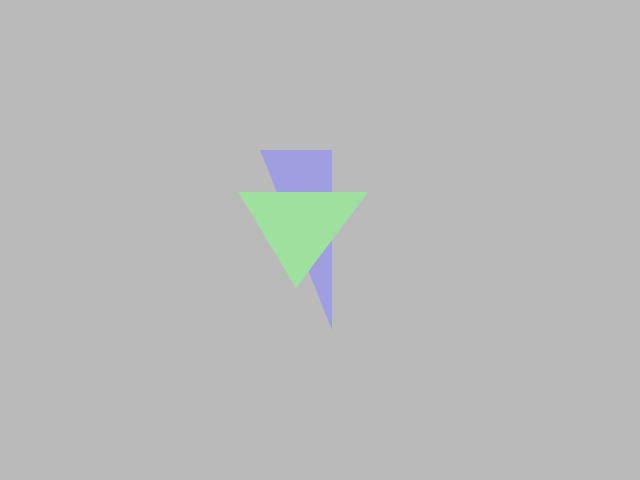
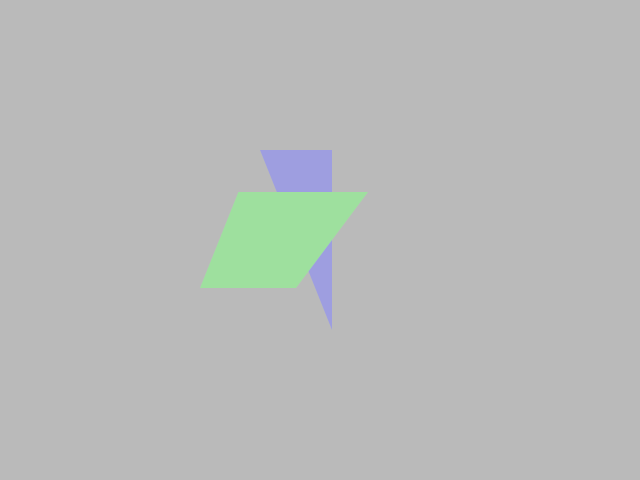
Add more triangle meshes

Changed region(s): [[0.3125, 0.4062, 0.4688, 0.625]]

diff --git a/handouts/homework2.tex b/handouts/homework2.tex
@@ -4,7 +4,7 @@
 
 \header{2}{3D Software Rendering}
 
-The previous homework focused on 2D graphics (which is already quite important!). In this homework, we're going 3D. We will define shapes in 3D, project them onto the screen space, and render them. The projection is going to simulate how a camera (or our eyes) works: it 
+The previous homework focused on 2D graphics (which is already quite important!). In this homework, we're going 3D. We will define shapes in 3D, project them onto the screen space, and render them. The projection is going to simulate how a camera (or our eyes) works. In particular, we will implement a \href{https://en.wikipedia.org/wiki/Pinhole_camera}{pinhole camera}. The light coming from an object goes through a very small hole and projects on a film (\cref{fig:pinhole}). 
 
 \begin{figure}[h]
     \centering
@@ -32,13 +32,13 @@ Let's start simple and render just a single 3D triangle. Our plan is to first pr
     \label{fig:perspective_transform}
 \end{figure}
 
-How do we project the triangle then? It's significantly easier if we assume a particular coordinate system of our camera. We will lift this assumption in the later part of the homework (by, you guess it, applying 3D transformations). Let's assume in the \emph{camera space}, $x$-axis is pointing right, $y$-axis is pointing up, and $z$-axis is pointing away from the direction the camera is looking at (the $z$ is specified this way so that we are following a \href{https://en.wikipedia.org/wiki/Right-hand_rule}{right-handed} coordinate system). We also assume that the image plane is located at $z=-1$. \cref{fig:perspective_transform} shows that the perspective projection of a point $(x, y, z)$ boils down to computing the intersection between the line formed by the point and the camera origin with the image plane. The projected point $(x', y')$ is
+How do we project the triangle then? It's significantly easier if we assume a particular coordinate system of our camera. We will lift this assumption in the later part of the homework (by, you guess it, applying 3D transformations). Let's assume in the \emph{camera space}, $x$-axis is pointing right, $y$-axis is pointing up, and $z$-axis is pointing away from the direction the camera is looking at (the $z$ is specified this way so that we are following a \href{https://en.wikipedia.org/wiki/Right-hand_rule}{right-handed} coordinate system). We also assume that the image plane is located at $z=-1$ -- this is where we are going to project our triangle onto. \cref{fig:perspective_transform} shows that the perspective projection of a point $(x, y, z)$ boils down to computing the intersection between the line formed by the point and the camera origin with the image plane. The projected point $(x', y')$ is
 \begin{equation}
 \left(x', y'\right) = \left(-\frac{x}{z}, -\frac{y}{z}\right).
 \label{eq:projection}
 \end{equation}
 
-Furthermore, we need to define the extent of the image plane (we can't have an image with infinite size!). Note that our image can be a rectangle (instead of a square). We define the extent of the image plane to be $[-sa, -s, -1] \times [sa, s, -1]$: $s$ is a scaling factor that controls the size of the image, and $a$ is the aspect ratio ($\frac{\text{image width}}{\text{image height}}$). As we will later show, $s$ is related to the \href{https://en.wikipedia.org/wiki/Field_of_view}{field of view} of a camera. Any point that lands outside of the extend of the image plane is discarded and not going to show up in our image. We call the set of points that are going to land on the image planes the \emph{view frustrum}. \cref{fig:perspective_transform} also visualizes the view frustrum.
+Furthermore, we need to define the extent of the image plane (we can't have an image with infinite size!). Note that our image can be a rectangle (instead of a square). We define the extent of the image plane to be $[-sa, -s, -1] \times [sa, s, -1]$: $s$ is a scaling factor that controls the size of the image, and $a$ is the aspect ratio ($\frac{\text{image width}}{\text{image height}}$). As we will discuss in the lecture, $s$ is related to the \href{https://en.wikipedia.org/wiki/Field_of_view}{field of view} of a camera. Any point that lands outside of the extend of the image plane is discarded and not going to show up in our image. We call the set of points that are going to land on the image planes the \emph{view frustrum}. \cref{fig:perspective_transform} also visualizes the view frustrum.
 
 Therefore, given a triangle with 3 vertices, we will project all three of them onto the image plane using \cref{eq:projection}. This generates a 2D triangle which we can then render using our previous homework's code.
 
@@ -67,20 +67,31 @@ Dealing with triangles with only one or two vertices behind the camera, and the 
     \label{fig:triangle_clipping}
 \end{figure}
 
-Implement your triangle rendering in \lstinline{hw_2_1()} in \lstinline{hw2.cpp}. To test your rendering, use the following command:
-\begin{lstlisting}[language=bash]
-  ./balboa -hw 2_1 -s 1 -p0 -1 -1 -3 -p1 0 1 -3 -p2 1 -1 -3 -color 0.7 0.3 0.4 -znear 1e-6
-\end{lstlisting}
-
 We'll use the same antialiasing scheme we used in Homework 1, i.e., a $4\times4$ supersampling.
 
-We provide our rendering in \cref{fig:hw2_1}.
+Implement your triangle rendering in \lstinline{hw_2_1()} in \lstinline{hw2.cpp}. To test your rendering, use the following commands:
+\begin{lstlisting}[language=bash]
+  ./balboa -hw 2_1 -s 1 -p0 -1 -1 -3 -p1 0 1 -3 -p2 1 -1 -3 -color 0.7 0.3 0.4 -znear 1e-6
+  ./balboa -hw 2_1 -s 1 -p0 -1 0 -2 -p1 0 2 -4 -p2 1 -2 -5 -color 0.7 0.3 0.8 -znear 1e-6
+  ./balboa -hw 2_1 -s 1 -p0 2 2 -1 -p1 -1 -1 -2 -p2 2 0 -3 -color 0.3 0.8 0.2 -znear 1e-6
+  ./balboa -hw 2_1 -s 1 -p0 200 200 -100 -p1 1 3 -4 -p2 -2 -2 -2 -color 0.8 0.1 0.3 -znear 1e-6
+\end{lstlisting}
+
+We provide our rendering of the first command in \cref{fig:hw2_1}.
 \begin{figure}[h]
     \centering
     \includegraphics[width=0.5\linewidth]{imgs/hw_2_1.png}
     \caption{Reference rendering for homework 2.1.}
     \label{fig:hw2_1}
 \end{figure}
+
+In your submission, save the images generated by the second to fourth commands as
+\begin{lstlisting}[language=bash]
+outputs/hw_2_1_1.png
+outputs/hw_2_1_2.png
+outputs/hw_2_1_3.png
+\end{lstlisting}
+We'll compare your output with our rendering for grading.
 
 \paragraph{Bonus: triangle clipping.} In practice, instead of rejecting a triangle if one or two verices are behind the near clipping plane, graphics pipelines would implement triangle clipping (\cref{fig:triangle_clipping}). As a bonus, you will implement the clipping of the triangles and render them correctly even when some vertices are behind the near clipping plane.
 
@@ -105,7 +116,7 @@ Next, we'll extend our previous code to handle more than one triangle. In comput
 
 An important difference, compared to the list of triangles we have in Homework 1, is to determine the depth order between all these triangles. That is, for a point inside a pixel, we need to decide which triangle is the one we actually see. The tricky part is, unlike Homework 1, it is impossible to globally sort the triangles to determine a depth order (\cref{fig:depth_order}).
 
-Therefore, we need to know the depth value of all the triangles overlapping with the point in the pixel. That is, given a image space point inside a projected triangle, we need to \emph{interpolate} from the depth values of the three vertices. This turns out to be slightly involved mathematically (code-wise it's actually just not that much though, my implementation of the depth interpolation takes around 70 lines including lots of comments). 
+Therefore, we need to know the depth value of all the triangles overlapping with the point in the pixel. That is, given a image space point inside a projected triangle, we need to \emph{interpolate} from the depth values of the three vertices. This turns out to be slightly involved mathematically (code-wise it's actually not that much though, my implementation of the depth interpolation takes around 70 lines including lots of comments). 
 
 To explain how to find the desired depth value, we need to explain what are \href{https://en.wikipedia.org/wiki/Barycentric_coordinate_system}{barycentric coordinates}. Any point $\mathbf{p}$ inside a triangle with three vertices $\mathbf{p}_0$, $\mathbf{p}_1$, $\mathbf{p}_2$ can be expressed using linear combination of the three vertices:
 \begin{equation}
@@ -114,9 +125,9 @@ To explain how to find the desired depth value, we need to explain what are \hre
 where $b_0 + b_1 + b_2 = 1$, $b_0 \geq 0$, $b_1 \geq 0$, and $b_2 \geq 0$. Given a point $\mathbf{p}$, we can compute the \textbf{unique} coefficients using \href{https://en.wikipedia.org/wiki/Cramer%27s_rule}{Cramer's rule}:
 \begin{equation}
 \begin{aligned}
-b_0 &= \frac{\text{area}\left(p, p_1, p_2\right)}{\text{area}\left(p_0, p_1, p_2\right)} \\
-b_1 &= \frac{\text{area}\left(p_0, p, p_2\right)}{\text{area}\left(p_0, p_1, p_2\right)} \\
-b_2 &= \frac{\text{area}\left(p_0, p_1, p\right)}{\text{area}\left(p_0, p_1, p_2\right)}
+b_0 &= \frac{\text{area}\left(\mathbf{p}, \mathbf{p}_1, \mathbf{p}_2\right)}{\text{area}\left(\mathbf{p}_0, \mathbf{p}_1, \mathbf{p}_2\right)} \\
+b_1 &= \frac{\text{area}\left(\mathbf{p}_0, \mathbf{p}, \mathbf{p}_2\right)}{\text{area}\left(\mathbf{p}_0, \mathbf{p}_1, \mathbf{p}_2\right)} \\
+b_2 &= \frac{\text{area}\left(\mathbf{p}_0, \mathbf{p}_1, \mathbf{p}\right)}{\text{area}\left(\mathbf{p}_0, \mathbf{p}_1, \mathbf{p}_2\right)}
 \end{aligned}
 \label{eq:barycentric_solve}
 \end{equation}
@@ -130,16 +141,14 @@ To get the area of a triangle, you can use the length of the cross product betwe
     \label{fig:perspective_interpolate}
 \end{figure}
 
-As illustrated in \cref{fig:perspective_interpolate}, our goal is, given an image plane point $\mathbf{p}'$ and a triangle with three vertices $\mathbf{p}_0$, $\mathbf{p}_1$, and $\mathbf{p}_2$, figure out the $z$ coordinate of the corresponding point $\mathbf{p}$. We want to use barycentric coordinates to help us. So we need to figure out what $b_0$, $b_1$, and $b_2$ are, so that we can interpolate the $z$ coordinates from $\mathbf{p}_0$, $\mathbf{p}_1$, and $\mathbf{p}_2$. Unfortunately, we cannot directly use \cref{eq:barycentric_solve}, since we don't know $\mathbf{p}$ (otherwise we would have know the answer already!). 
+As illustrated in \cref{fig:perspective_interpolate}, our goal is, given an image plane point $\mathbf{p}'$ and a triangle with three vertices $\mathbf{p}_0$, $\mathbf{p}_1$, and $\mathbf{p}_2$, figure out the $z$ coordinate of the corresponding point $\mathbf{p}$. We want to use barycentric coordinates to help us. So we need to figure out what $b_0$, $b_1$, and $b_2$ are, so that we can interpolate the $z$ coordinates from $\mathbf{p}_0$, $\mathbf{p}_1$, and $\mathbf{p}_2$. Unfortunately, we cannot directly use \cref{eq:barycentric_solve}, since we don't know $\mathbf{p}$ (otherwise we would have known the answer already!). 
 
-What we do know are the projected vertices $\mathbf{p}_0'$, $\mathbf{p}_1'$, and $\mathbf{p}_2'$, and our image plane point $\mathbf{p}'$. Furthermore, we know that $p$ projects to $p'$. Given the projected vertices and the image plane point, we can compute the projected barycentric coordinates $b_0'$, $b_1'$, $b_2'$. We want to relate the projected barycentric coordinates with the original ones.
+What we do know are the original vertices $\mathbf{p}_0$, $\mathbf{p}_1$, and $\mathbf{p}_2$, projected vertices $\mathbf{p}_0'$, $\mathbf{p}_1'$, and $\mathbf{p}_2'$, and our image plane point $\mathbf{p}'$. Furthermore, we know that $\mathbf{p}$ projects to $\mathbf{p}'$ and $\mathbf{p}_i$ projects to $\mathbf{p}_i'$. Given the projected vertices and the image plane point, we can compute the projected barycentric coordinates $b_0'$, $b_1'$, $b_2'$ using \cref{eq:barycentric_solve}. We want to relate the projected barycentric coordinates with the original ones.
 
 Since $\mathbf{p}$ projects to $\mathbf{p}'$, we know that
 \begin{equation}
-\begin{aligned}
-\mathbf{p}' &= \left(-\frac{\mathbf{p}.x}{\mathbf{p}.z}, -\frac{\mathbf{p}.y}{\mathbf{p}.z}, -1\right) \\
-\mathbf{p}' &= -\frac{\mathbf{p}}{\mathbf{p}.z}.
-\end{aligned}
+\mathbf{p}' = \left(-\frac{\mathbf{p}.x}{\mathbf{p}.z}, -\frac{\mathbf{p}.y}{\mathbf{p}.z}, -1\right) 
+= -\frac{\mathbf{p}}{\mathbf{p}.z}.
 \end{equation}
 
 Plugging in $\mathbf{p} = b_0 \mathbf{p}_0 + b_1 \mathbf{p}_1 + b_2 \mathbf{p}_2$ and $\mathbf{p}.z = b_0 \mathbf{p}_0.z + b_1 \mathbf{p}_1.z + b_2 \mathbf{p}_2.z$:
@@ -243,7 +252,11 @@ struct TriangleMesh {
 Go implement your triangle mesh rendering code in \lstinline{hw_2_2}. To test your implementation, use the command
 \begin{lstlisting}[language=bash]
   ./balboa -hw 2_2 -s 1 -znear 1e-6 -scene_id 0
+  ./balboa -hw 2_2 -s 1.5 -znear 1e-6 -scene_id 1
+  ./balboa -hw 2_2 -s 0.2 -znear 1e-6 -scene_id 2
+  ./balboa -hw 2_2 -s 0.2 -znear 1e-6 -scene_id 3
 \end{lstlisting}
+where \lstinline{[scene_id]} is the scene you want to render (0-3).
 
 Our rendering for \lstinline{scene_id 0} is in \cref{fig:hw2_2}.
 \begin{figure}[h]
@@ -252,6 +265,14 @@ Our rendering for \lstinline{scene_id 0} is in \cref{fig:hw2_2}.
     \caption{Reference rendering for homework 2.2.}
     \label{fig:hw2_2}
 \end{figure}
+
+In your submission, save your rendering of \lstinline{scene_id=1-3} as
+\begin{lstlisting}[language=bash]
+outputs/hw_2_2_1.png
+outputs/hw_2_2_2.png
+outputs/hw_2_2_3.png
+\end{lstlisting}
+We'll compare your output with our rendering for grading.
 
 \section{Perspective-corrected interpolation}
 

diff --git a/src/hw2_scenes.cpp b/src/hw2_scenes.cpp
@@ -8,21 +8,105 @@ using json = nlohmann::json;
 
 namespace hw2 {
 
-// Two isolated triangles
+// A triangle and a quadliteral
 TriangleMesh mesh0 {
     // vertices
-    {{-1.7, 1.0, -5.0}, {1.0, 1.0, -5.0}, {-0.5, -1.0, -5.0},
+    {{-1.7, 1.0, -5.0}, {1.0, 1.0, -5.0}, {-0.5, -1.0, -5.0}, {-2.5, -1.0, -5.0},
      {-1.0, 1.5, -4.0}, {0.2, 1.5, -4.0}, { 0.2, -1.5, -4.0}},
     // faces
-    {{0, 1, 2}, {3, 4, 5}},
+    {{0, 1, 2}, {0, 2, 3}, {4, 5, 6}},
     // face_colors
-    {{0.35, 0.75, 0.35}, {0.35, 0.35, 0.75}},
+    {{0.35, 0.75, 0.35}, {0.35, 0.75, 0.35}, {0.35, 0.35, 0.75}},
     // vertex_colors
-    {{0.75, 0.35, 0.35}, {0.35, 0.75, 0.35}, {0.35, 0.35, 0.75},
+    {{0.75, 0.35, 0.35}, {0.35, 0.75, 0.35}, {0.35, 0.35, 0.75}, {0.75, 0.35, 0.75},
      {0.35, 0.75, 0.75}, {0.75, 0.35, 0.75}, {0.75, 0.75, 0.35}}
 };
 
-std::vector<TriangleMesh> meshes = {mesh0};
+// Tetrahedron
+TriangleMesh mesh1 {
+    // vertices
+    {{-4.0, 0.0, -5.0}, {0.0, 2.0, -5.0}, {1.5, -2.3, -3.0}, {-1.0, 0.0, -5.0}},
+    // faces
+    {{0, 1, 2}, {0, 1, 3}, {0, 2, 3}, {1, 2, 3}},
+    // face_colors
+    {{0.35, 0.75, 0.35}, {0.35, 0.75, 0.35}, {0.35, 0.35, 0.75}, {0.75, 0.35, 0.75}},
+    // vertex_colors
+    {{0.75, 0.35, 0.35}, {0.35, 0.75, 0.35}, {0.35, 0.35, 0.75}, {0.75, 0.35, 0.75}}
+};
+
+// Cube
+TriangleMesh mesh2 {
+    // vertices
+    {{-0.492931, 0.128937, -24.255093},
+     {0.025111, -1.847709, -23.098335},
+     {-1.253942, -1.113622, -21.271122},
+     {-1.771980, 0.863028, -22.427881},
+     {0.645860, -0.080392, -20.356359},
+     {0.127818, 1.896260, -21.513117},
+     {1.924910, -0.814484, -22.183584},
+     {1.406871, 1.162166, -23.340342}
+    },
+    // faces
+    {{0, 1, 2}, {0, 2, 3},
+     {3, 2, 4}, {3, 4, 5},
+     {5, 4, 6}, {5, 6, 7},
+     {7, 6, 1}, {7, 1, 0},
+     {3, 5, 7}, {3, 7, 0},
+     {4, 2, 1}, {4, 1, 6}
+    },
+    // face_colors
+    {{0.2, 0.5, 0.8}, {0.2, 0.5, 0.8},
+     {0.2, 0.8, 0.5}, {0.2, 0.8, 0.5},
+     {0.8, 0.2, 0.5}, {0.8, 0.2, 0.5},
+     {0.8, 0.8, 0.2}, {0.8, 0.8, 0.2},
+     {0.2, 0.8, 0.8}, {0.2, 0.8, 0.8},
+     {0.8, 0.2, 0.8}, {0.8, 0.2, 0.8}
+    },
+    // vertex_colors
+    {{0.2, 0.2, 0.2},
+     {0.8, 0.2, 0.2},
+     {0.2, 0.8, 0.2},
+     {0.2, 0.2, 0.8},
+     {0.2, 0.8, 0.8},
+     {0.8, 0.2, 0.8},
+     {0.8, 0.8, 0.2},
+     {0.8, 0.8, 0.8}}
+};
+
+// Prism
+TriangleMesh mesh3 {
+    // vertices
+    {{-0.424823, -0.659383, -1.59265},
+     {0.407141, 1.11459, -1.99373},
+     {0.93389, -1.5588, -2.75237},
+     {-0.951021, -0.568008, -2.28},
+     {-0.119057, 1.20596, -2.68108},
+     {0.407693, -1.46742, -3.43972}
+    },
+    // faces
+    {{0, 1, 2},
+     {0, 1, 3}, {1, 3, 4},
+     {0, 3, 2}, {3, 2, 5},
+     {3, 4, 5},
+     {1, 2, 4}, {2, 4, 5}
+    },
+    // face_colors
+    {{0.9, 0.1, 0.5},
+     {0.3, 0.8, 0.3}, {0.3, 0.8, 0.3},
+     {0.8, 0.8, 0.3}, {0.8, 0.8, 0.3},
+     {0.1, 0.9, 0.5},
+     {0.3, 0.8, 0.8}, {0.3, 0.8, 0.8},
+    },
+    // vertex_colors
+    {{0.8, 0.2, 0.2},
+     {0.2, 0.8, 0.2},
+     {0.2, 0.2, 0.8},
+     {0.2, 0.8, 0.8},
+     {0.8, 0.2, 0.8},
+     {0.8, 0.8, 0.2}}
+};
+
+std::vector<TriangleMesh> meshes = {mesh0, mesh1, mesh2, mesh3};
 
 Matrix4x4 parse_transformation(const json &node) {
     // Homework 2.4: parse a sequence of linear transformation and 
